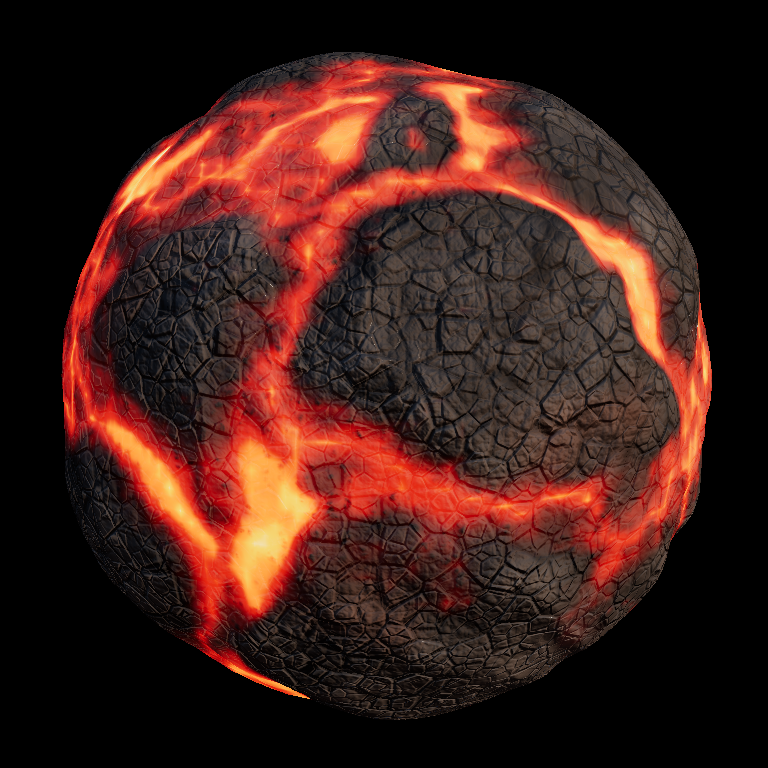
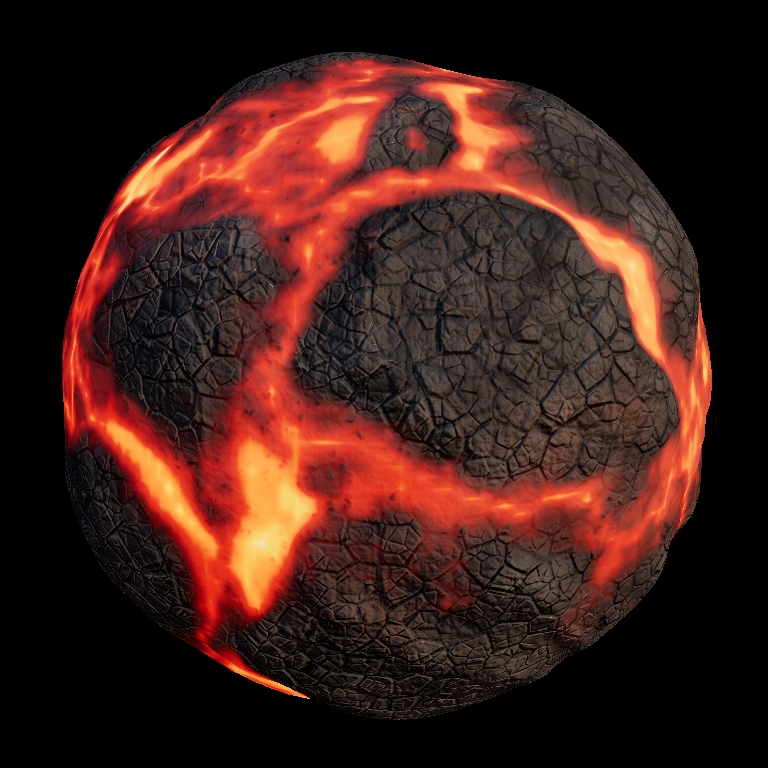
Fade crust normals before lava incandescence

diff --git a/apps/docs/lib/examples-source.generated.ts b/apps/docs/lib/examples-source.generated.ts
@@ -1685,7 +1685,7 @@ export const exampleSources = {
       {
         "path": "lava-material.ts",
         "language": "typescript",
-        "content": "import * as THREE from \"three/webgpu\";\nimport {\n  float,\n  fwidth,\n  mix,\n  normalLocal,\n  positionLocal,\n  smoothstep,\n  texture,\n  time,\n  transformNormalToView,\n  uniform,\n  vec2,\n  vec3,\n} from \"three/tsl\";\nimport type { ShaderNodeObject } from \"three/tsl\";\nimport type { Node } from \"three/webgpu\";\nimport lavaModule from \"./lava.wgsl\";\nimport { tslExports } from \"./wgsl-tsl\";\nimport {\n  sampleDisplacementVolume,\n  sampleFieldVolume,\n  type LavaFieldVolumes,\n} from \"./bake-lava\";\n\nconst { blackbody, perlin3, sharpDetail, sharpScabs } = tslExports(lavaModule, [\n  \"blackbody\",\n  \"perlin3\",\n  \"sharpDetail\",\n  \"sharpScabs\",\n]);\n\nexport interface LavaMaterialOptions {\n  /** Pre-baked field volumes from `bakeLavaVolumes`. */\n  readonly volumes: LavaFieldVolumes;\n  /** Drives the breathing pulse; defaults to the TSL `time` node. */\n  readonly timeNode?: Node;\n}\n\nexport interface LavaMaterial {\n  readonly material: THREE.MeshPhysicalNodeMaterial;\n  /** Emissive strength of the molten channels. */\n  readonly glowIntensity: ReturnType<typeof uniform<number>>;\n  /** Spatial frequency of the lava field on the mesh. */\n  readonly scale: ReturnType<typeof uniform<number>>;\n}\n\n/**\n * Cooling basalt crust over an incandescent molten interior — same\n * composition as before, split between the pre-baked volumes and a live\n * sharp register. Smooth fields (domes, melt, glow, masks) come out of the\n * volumes; the crust's signature fine structure — flaky scabs, seams,\n * vesicle pits, mineral grain — is far below what a 128^3 volume can hold\n * (flake seams are fractions of a texel), so it is evaluated live. That\n * stays cheap because the one expensive dependency those registers had, the\n * lavaDomain warp, is low-frequency and comes pre-baked as an offset volume.\n * The breathing pulse also stays live (its phase is a baked channel), and\n * the ember seep gates the baked fringe through the same live grain that\n * drives the micro normals, so the speckle stays registered with them.\n */\nexport function createLavaMaterial(options: LavaMaterialOptions): LavaMaterial {\n  const { volumes } = options;\n  const glowIntensity = uniform(1.6);\n  const scale = uniform(1.0);\n  // Every caller hands in a TSL-built node (float(...) or the time node);\n  // the option keeps the broader Node type for API symmetry with the scene.\n  const t = (options.timeNode ?? time) as ShaderNodeObject<Node>;\n\n  const p = positionLocal.mul(scale);\n\n  // Baked registers. Glow: x = sqrt(heat/1.6) sans seep, y = melt mask,\n  // z = pulse phase, w = sqrt(seepable fringe/1.4). SurfaceA: x = smooth\n  // crust height, y = cooling skin, z = glass mask, w = spec mottle.\n  // SurfaceB: x = tone, y = oxide, z = fine crevice, w = iridescence.\n  const glow = sampleFieldVolume(volumes.glow, p);\n  const surfaceA = sampleFieldVolume(volumes.surfaceA, p);\n  const surfaceB = sampleFieldVolume(volumes.surfaceB, p);\n  // The lavaDomain warp, decoded; effectively constant across the bump\n  // epsilon (it is 1.1 cycles/unit), so one tap serves every sharp-register\n  // evaluation below.\n  const warpOffset = sampleFieldVolume(volumes.warp, p)\n    .xyz.sub(0.5)\n    .mul(0.9);\n\n  const molten = glow.y;\n  const specMottle = surfaceA.w;\n  const glass = surfaceA.z;\n  const tone = surfaceB.x;\n  const oxide = surfaceB.y;\n  const crevice = surfaceB.z;\n  const irid = surfaceB.w;\n\n  // High-frequency mineral grain is a seamless, mipmapped 2D bake sampled\n  // triplanarly. RGB is sampled at the original 19-cycle grain frequency;\n  // alpha is sampled separately so the streak register retains its authored\n  // 24/7/24 anisotropy. Six filtered taps replace the live four-octave noise\n  // plus its three finite-difference evaluations.\n  const weightsRaw = normalLocal.abs().pow(8).toVar();\n  const weights = weightsRaw.div(weightsRaw.x.add(weightsRaw.y).add(weightsRaw.z));\n  const phaseX = vec2(0.17, 0.53);\n  const phaseY = vec2(0.61, 0.11);\n  const phaseZ = vec2(0.37, 0.79);\n  const grainScale = 19 / 48;\n  const grainX = texture(volumes.microDetail, p.yz.mul(grainScale).add(phaseX));\n  const grainY = texture(volumes.microDetail, p.xz.mul(grainScale).add(phaseY));\n  const grainZ = texture(volumes.microDetail, p.xy.mul(grainScale).add(phaseZ));\n  const grain = grainX.x.mul(weights.x)\n    .add(grainY.x.mul(weights.y))\n    .add(grainZ.x.mul(weights.z));\n\n  const streakPeriod = 64;\n  const streakX = texture(\n    volumes.microDetail,\n    p.yz.mul(vec2(7 / streakPeriod, 24 / streakPeriod))\n      .add(vec2(8 / streakPeriod, 15 / streakPeriod))\n      .add(phaseX)\n  ).w;\n  const streakY = texture(\n    volumes.microDetail,\n    p.xz.mul(vec2(24 / streakPeriod, 24 / streakPeriod))\n      .add(vec2(4 / streakPeriod, 15 / streakPeriod))\n      .add(phaseY)\n  ).w;\n  const streakZ = texture(\n    volumes.microDetail,\n    p.xy.mul(vec2(24 / streakPeriod, 7 / streakPeriod))\n      .add(vec2(4 / streakPeriod, 8 / streakPeriod))\n      .add(phaseZ)\n  ).w;\n  const streaks = streakX.mul(weights.x)\n    .add(streakY.mul(weights.y))\n    .add(streakZ.mul(weights.z));\n\n  // GB stores d(grain)/d(tile uv). Apply the coordinate chain rule for the\n  // object-space grain coordinates, then blend the projection gradients.\n  const microGrad = vec3(0, grainX.y, grainX.z).mul(weights.x)\n    .add(vec3(grainY.y, 0, grainY.z).mul(weights.y))\n    .add(vec3(grainZ.y, grainZ.z, 0).mul(weights.z))\n    .mul(grainScale);\n  const microTangent = microGrad.sub(normalLocal.mul(microGrad.dot(normalLocal)));\n\n  // Sharp crust structure (flaky scabs, seams, vesicle pits) stays live: its\n  // masks are fractions of a volume texel and are outside this first bake.\n  const sharp = sharpDetail({ position: p, warpOffset });\n  const scabs = sharp.x;\n  const pits = sharp.y;\n  const pitsOnly = sharp.z;\n  const height = surfaceA.x.add(scabs).sub(pitsOnly.mul(0.08)).clamp(0, 1);\n\n  // Slow breathing so the melt looks alive, and the ember seep gating the\n  // baked fringe through the LIVE grain — the same register the micro\n  // normals use, so the speckle sits in crevices you can actually see.\n  const pulse = t.mul(0.7).add(glow.z.mul(6.2831853)).sin().mul(0.1).add(0.9);\n  const seep = smoothstep(0.62, 0.25, grain);\n  const fringe = glow.w.mul(glow.w).mul(1.4).mul(seep);\n  const heat = glow.x.mul(glow.x).mul(1.6).add(fringe).mul(pulse).clamp(0, 1);\n\n  // Band-limiting: fade each detail register out as its wavelength drops\n  // under the pixel footprint, so distant/minified areas stay clean instead\n  // of dissolving into per-pixel speckle.\n  const footprint = fwidth(p).length();\n  const microFade = smoothstep(0.022, 0.007, footprint);\n  const striaeFade = smoothstep(0.012, 0.004, footprint);\n\n  const material = new THREE.MeshPhysicalNodeMaterial({ metalness: 0 });\n\n  // Basalt skin: warm dusty grey-brown, ridges catching more light than the\n  // fissured low ground, rust staining on older patches, and pits plus\n  // flake seams going almost black.\n  const ash = mix(vec3(0.045, 0.04, 0.036), vec3(0.19, 0.17, 0.15), tone);\n  const ridgeLight = height.mul(height).mul(0.6).add(0.6);\n  const stained = mix(ash.mul(ridgeLight), vec3(0.20, 0.085, 0.05), oxide.mul(0.5));\n  const basalt = mix(stained, stained.mul(0.4), pits);\n  material.colorNode = mix(basalt, vec3(0.012, 0.01, 0.009), molten);\n\n  // Incandescence: blackbody ramp over the baked heat field, crushed\n  // slightly so contact rims go yellow-white while striation crests cool\n  // through deep red.\n  material.emissiveNode = blackbody({ t: heat.pow(1.35) }).mul(glowIntensity);\n\n  // Roughness map, not a constant: rubble is matte with sharp grain breakup,\n  // the glassy skin is polished but streaked by flow lines, vesicle pits and\n  // dusty valleys scatter more, and molten rock is a glossy liquid.\n  const crustRoughness = mix(float(0.94), float(0.55), glass)\n    .add(grain.sub(0.5).mul(microFade.mul(0.14)))\n    .add(streaks.sub(0.5).mul(0.12).mul(glass))\n    .add(pits.mul(0.08))\n    .add(height.oneMinus().mul(0.05));\n  const moltenRoughness = float(0.32).add(streaks.sub(0.5).mul(0.1));\n  material.roughnessNode = mix(crustRoughness, moltenRoughness, molten).clamp(0.05, 1);\n  material.clearcoatNode = glass.mul(0.25).mul(molten.oneMinus());\n  material.clearcoatRoughnessNode = float(0.22).add(grain.sub(0.5).mul(0.15)).clamp(0.05, 1);\n\n  // PBR refinement from the baked registers; only the facet glints stay\n  // live, being a single high-frequency perlin tap.\n  const facets = smoothstep(\n    0.72,\n    0.92,\n    perlin3({ position: p.mul(21).add(vec3(11, 3, 29)) })\n  );\n  // Cavity occlusion, rebuilt from the baked crevice mask plus the live\n  // pits — the same formula crustPbr used.\n  const cavity = float(1).sub(crevice.mul(0.5)).sub(pitsOnly.mul(0.35)).clamp(0, 1);\n  material.aoNode = cavity;\n  material.specularIntensityNode = mix(specMottle, float(1), molten);\n  material.metalnessNode = facets.mul(glass.mul(0.25).add(0.05)).mul(molten.oneMinus());\n  material.iridescenceNode = irid.mul(glass).mul(0.15);\n  material.iridescenceIORNode = float(2.0);\n  material.iridescenceThicknessNode = irid.mul(250).add(150);\n\n  // Vertex displacement is one small-volume tap: the bake already combined\n  // plate bulge minus channel sink into a single encoded scalar.\n  const relief = sampleDisplacementVolume(volumes.displacement, p)\n    .x.mul(0.9)\n    .sub(0.4)\n    .mul(0.12);\n  material.positionNode = positionLocal.add(normalLocal.mul(relief));\n\n  // Bump normals: the smooth plate/rope gradient finite-differences the\n  // baked volume, and the flaky scab plateaus — the cracked-plate skin that\n  // defines the crust, far too fine for the volume — finite-difference the\n  // live field at the same taps, sharing the one baked warp offset.\n  const eps = 0.024;\n  const smoothHeight = surfaceA.x;\n  const offsetX = sampleFieldVolume(volumes.surfaceA, p.add(vec3(eps, 0, 0)));\n  const offsetY = sampleFieldVolume(volumes.surfaceA, p.add(vec3(0, eps, 0)));\n  const offsetZ = sampleFieldVolume(volumes.surfaceA, p.add(vec3(0, 0, eps)));\n  const scabEps = 0.006;\n  const scabGrad = vec3(\n    sharpScabs({ position: p.add(vec3(scabEps, 0, 0)), warpOffset }).sub(scabs),\n    sharpScabs({ position: p.add(vec3(0, scabEps, 0)), warpOffset }).sub(scabs),\n    sharpScabs({ position: p.add(vec3(0, 0, scabEps)), warpOffset }).sub(scabs)\n  ).div(scabEps);\n  const grad = vec3(\n    offsetX.x.sub(smoothHeight),\n    offsetY.x.sub(smoothHeight),\n    offsetZ.x.sub(smoothHeight)\n  )\n    .div(eps)\n    .add(scabGrad);\n  const tangentGrad = grad.sub(normalLocal.mul(grad.dot(normalLocal)));\n\n  const skin = surfaceA.y;\n  const skinGrad = vec3(\n    offsetX.y.sub(skin),\n    offsetY.y.sub(skin),\n    offsetZ.y.sub(skin)\n  ).div(eps);\n  const skinTangent = skinGrad.sub(normalLocal.mul(skinGrad.dot(normalLocal)));\n\n  const bumped = normalLocal\n    .sub(tangentGrad.mul(mix(float(0.16), float(0.04), molten)))\n    .sub(microTangent.mul(mix(float(0.022), float(0.008), molten).mul(microFade)))\n    .sub(skinTangent.mul(molten.mul(0.014).mul(striaeFade)))\n    .normalize();\n  material.normalNode = transformNormalToView(bumped);\n\n  // The clearcoat is the frozen glass skin draped over the rock: it follows\n  // the plates but not the mineral grain, so it gets its own smoother normal.\n  const skinNormal = normalLocal.sub(tangentGrad.mul(0.1)).normalize();\n  material.clearcoatNormalNode = transformNormalToView(skinNormal);\n\n  return { material, glowIntensity, scale };\n}\n"
+        "content": "import * as THREE from \"three/webgpu\";\nimport {\n  float,\n  fwidth,\n  mix,\n  normalLocal,\n  positionLocal,\n  smoothstep,\n  texture,\n  time,\n  transformNormalToView,\n  uniform,\n  vec2,\n  vec3,\n} from \"three/tsl\";\nimport type { ShaderNodeObject } from \"three/tsl\";\nimport type { Node } from \"three/webgpu\";\nimport lavaModule from \"./lava.wgsl\";\nimport { tslExports } from \"./wgsl-tsl\";\nimport {\n  sampleDisplacementVolume,\n  sampleFieldVolume,\n  type LavaFieldVolumes,\n} from \"./bake-lava\";\n\nconst { blackbody, perlin3, sharpDetail, sharpScabs } = tslExports(lavaModule, [\n  \"blackbody\",\n  \"perlin3\",\n  \"sharpDetail\",\n  \"sharpScabs\",\n]);\n\nexport interface LavaMaterialOptions {\n  /** Pre-baked field volumes from `bakeLavaVolumes`. */\n  readonly volumes: LavaFieldVolumes;\n  /** Drives the breathing pulse; defaults to the TSL `time` node. */\n  readonly timeNode?: Node;\n}\n\nexport interface LavaMaterial {\n  readonly material: THREE.MeshPhysicalNodeMaterial;\n  /** Emissive strength of the molten channels. */\n  readonly glowIntensity: ReturnType<typeof uniform<number>>;\n  /** Spatial frequency of the lava field on the mesh. */\n  readonly scale: ReturnType<typeof uniform<number>>;\n}\n\n/**\n * Cooling basalt crust over an incandescent molten interior — same\n * composition as before, split between the pre-baked volumes and a live\n * sharp register. Smooth fields (domes, melt, glow, masks) come out of the\n * volumes; the crust's signature fine structure — flaky scabs, seams,\n * vesicle pits, mineral grain — is far below what a 128^3 volume can hold\n * (flake seams are fractions of a texel), so it is evaluated live. That\n * stays cheap because the one expensive dependency those registers had, the\n * lavaDomain warp, is low-frequency and comes pre-baked as an offset volume.\n * The breathing pulse also stays live (its phase is a baked channel), and\n * the ember seep gates the baked fringe through the same live grain that\n * drives the micro normals, so the speckle stays registered with them.\n */\nexport function createLavaMaterial(options: LavaMaterialOptions): LavaMaterial {\n  const { volumes } = options;\n  const glowIntensity = uniform(1.6);\n  const scale = uniform(1.0);\n  // Every caller hands in a TSL-built node (float(...) or the time node);\n  // the option keeps the broader Node type for API symmetry with the scene.\n  const t = (options.timeNode ?? time) as ShaderNodeObject<Node>;\n\n  const p = positionLocal.mul(scale);\n\n  // Baked registers. Glow: x = sqrt(heat/1.6) sans seep, y = melt mask,\n  // z = pulse phase, w = sqrt(seepable fringe/1.4). SurfaceA: x = smooth\n  // crust height, y = cooling skin, z = glass mask, w = spec mottle.\n  // SurfaceB: x = tone, y = oxide, z = fine crevice, w = iridescence.\n  const glow = sampleFieldVolume(volumes.glow, p);\n  const surfaceA = sampleFieldVolume(volumes.surfaceA, p);\n  const surfaceB = sampleFieldVolume(volumes.surfaceB, p);\n  // The lavaDomain warp, decoded; effectively constant across the bump\n  // epsilon (it is 1.1 cycles/unit), so one tap serves every sharp-register\n  // evaluation below.\n  const warpOffset = sampleFieldVolume(volumes.warp, p)\n    .xyz.sub(0.5)\n    .mul(0.9);\n\n  const molten = glow.y;\n  const specMottle = surfaceA.w;\n  const glass = surfaceA.z;\n  const tone = surfaceB.x;\n  const oxide = surfaceB.y;\n  const crevice = surfaceB.z;\n  const irid = surfaceB.w;\n\n  // High-frequency mineral grain is a seamless, mipmapped 2D bake sampled\n  // triplanarly. RGB is sampled at the original 19-cycle grain frequency;\n  // alpha is sampled separately so the streak register retains its authored\n  // 24/7/24 anisotropy. Six filtered taps replace the live four-octave noise\n  // plus its three finite-difference evaluations.\n  const weightsRaw = normalLocal.abs().pow(8).toVar();\n  const weights = weightsRaw.div(weightsRaw.x.add(weightsRaw.y).add(weightsRaw.z));\n  const phaseX = vec2(0.17, 0.53);\n  const phaseY = vec2(0.61, 0.11);\n  const phaseZ = vec2(0.37, 0.79);\n  const grainScale = 19 / 48;\n  const grainX = texture(volumes.microDetail, p.yz.mul(grainScale).add(phaseX));\n  const grainY = texture(volumes.microDetail, p.xz.mul(grainScale).add(phaseY));\n  const grainZ = texture(volumes.microDetail, p.xy.mul(grainScale).add(phaseZ));\n  const grain = grainX.x.mul(weights.x)\n    .add(grainY.x.mul(weights.y))\n    .add(grainZ.x.mul(weights.z));\n\n  const streakPeriod = 64;\n  const streakX = texture(\n    volumes.microDetail,\n    p.yz.mul(vec2(7 / streakPeriod, 24 / streakPeriod))\n      .add(vec2(8 / streakPeriod, 15 / streakPeriod))\n      .add(phaseX)\n  ).w;\n  const streakY = texture(\n    volumes.microDetail,\n    p.xz.mul(vec2(24 / streakPeriod, 24 / streakPeriod))\n      .add(vec2(4 / streakPeriod, 15 / streakPeriod))\n      .add(phaseY)\n  ).w;\n  const streakZ = texture(\n    volumes.microDetail,\n    p.xy.mul(vec2(24 / streakPeriod, 7 / streakPeriod))\n      .add(vec2(4 / streakPeriod, 8 / streakPeriod))\n      .add(phaseZ)\n  ).w;\n  const streaks = streakX.mul(weights.x)\n    .add(streakY.mul(weights.y))\n    .add(streakZ.mul(weights.z));\n\n  // GB stores d(grain)/d(tile uv). Apply the coordinate chain rule for the\n  // object-space grain coordinates, then blend the projection gradients.\n  const microGrad = vec3(0, grainX.y, grainX.z).mul(weights.x)\n    .add(vec3(grainY.y, 0, grainY.z).mul(weights.y))\n    .add(vec3(grainZ.y, grainZ.z, 0).mul(weights.z))\n    .mul(grainScale);\n  const microTangent = microGrad.sub(normalLocal.mul(microGrad.dot(normalLocal)));\n\n  // Sharp crust structure (flaky scabs, seams, vesicle pits) stays live: its\n  // masks are fractions of a volume texel and are outside this first bake.\n  const sharp = sharpDetail({ position: p, warpOffset });\n  const scabs = sharp.x;\n  const pits = sharp.y;\n  const pitsOnly = sharp.z;\n  const height = surfaceA.x.add(scabs).sub(pitsOnly.mul(0.08)).clamp(0, 1);\n\n  // Slow breathing so the melt looks alive, and the ember seep gating the\n  // baked fringe through the LIVE grain — the same register the micro\n  // normals use, so the speckle sits in crevices you can actually see.\n  const pulse = t.mul(0.7).add(glow.z.mul(6.2831853)).sin().mul(0.1).add(0.9);\n  const seep = smoothstep(0.62, 0.25, grain);\n  const fringe = glow.w.mul(glow.w).mul(1.4).mul(seep);\n  const heat = glow.x.mul(glow.x).mul(1.6).add(fringe).mul(pulse).clamp(0, 1);\n  const incandescence = heat.pow(1.35);\n\n  // Band-limiting: fade each detail register out as its wavelength drops\n  // under the pixel footprint, so distant/minified areas stay clean instead\n  // of dissolving into per-pixel speckle.\n  const footprint = fwidth(p).length();\n  const microFade = smoothstep(0.022, 0.007, footprint);\n  const striaeFade = smoothstep(0.012, 0.004, footprint);\n\n  const material = new THREE.MeshPhysicalNodeMaterial({ metalness: 0 });\n\n  // Basalt skin: warm dusty grey-brown, ridges catching more light than the\n  // fissured low ground, rust staining on older patches, and pits plus\n  // flake seams going almost black.\n  const ash = mix(vec3(0.045, 0.04, 0.036), vec3(0.19, 0.17, 0.15), tone);\n  const ridgeLight = height.mul(height).mul(0.6).add(0.6);\n  const stained = mix(ash.mul(ridgeLight), vec3(0.20, 0.085, 0.05), oxide.mul(0.5));\n  const basalt = mix(stained, stained.mul(0.4), pits);\n  material.colorNode = mix(basalt, vec3(0.012, 0.01, 0.009), molten);\n\n  // Incandescence: blackbody ramp over the baked heat field, crushed\n  // slightly so contact rims go yellow-white while striation crests cool\n  // through deep red.\n  material.emissiveNode = blackbody({ t: incandescence }).mul(glowIntensity);\n\n  // Roughness map, not a constant: rubble is matte with sharp grain breakup,\n  // the glassy skin is polished but streaked by flow lines, vesicle pits and\n  // dusty valleys scatter more, and molten rock is a glossy liquid.\n  const crustRoughness = mix(float(0.94), float(0.55), glass)\n    .add(grain.sub(0.5).mul(microFade.mul(0.14)))\n    .add(streaks.sub(0.5).mul(0.12).mul(glass))\n    .add(pits.mul(0.08))\n    .add(height.oneMinus().mul(0.05));\n  const moltenRoughness = float(0.32).add(streaks.sub(0.5).mul(0.1));\n  material.roughnessNode = mix(crustRoughness, moltenRoughness, molten).clamp(0.05, 1);\n  material.clearcoatNode = glass.mul(0.25).mul(molten.oneMinus());\n  material.clearcoatRoughnessNode = float(0.22).add(grain.sub(0.5).mul(0.15)).clamp(0.05, 1);\n\n  // PBR refinement from the baked registers; only the facet glints stay\n  // live, being a single high-frequency perlin tap.\n  const facets = smoothstep(\n    0.72,\n    0.92,\n    perlin3({ position: p.mul(21).add(vec3(11, 3, 29)) })\n  );\n  // Cavity occlusion, rebuilt from the baked crevice mask plus the live\n  // pits — the same formula crustPbr used.\n  const cavity = float(1).sub(crevice.mul(0.5)).sub(pitsOnly.mul(0.35)).clamp(0, 1);\n  material.aoNode = cavity;\n  material.specularIntensityNode = mix(specMottle, float(1), molten);\n  material.metalnessNode = facets.mul(glass.mul(0.25).add(0.05)).mul(molten.oneMinus());\n  material.iridescenceNode = irid.mul(glass).mul(0.15);\n  material.iridescenceIORNode = float(2.0);\n  material.iridescenceThicknessNode = irid.mul(250).add(150);\n\n  // Vertex displacement is one small-volume tap: the bake already combined\n  // plate bulge minus channel sink into a single encoded scalar.\n  const relief = sampleDisplacementVolume(volumes.displacement, p)\n    .x.mul(0.9)\n    .sub(0.4)\n    .mul(0.12);\n  material.positionNode = positionLocal.add(normalLocal.mul(relief));\n\n  // Bump normals: the smooth plate/rope gradient finite-differences the\n  // baked volume, and the flaky scab plateaus — the cracked-plate skin that\n  // defines the crust, far too fine for the volume — finite-difference the\n  // live field at the same taps, sharing the one baked warp offset.\n  const eps = 0.024;\n  const smoothHeight = surfaceA.x;\n  const offsetX = sampleFieldVolume(volumes.surfaceA, p.add(vec3(eps, 0, 0)));\n  const offsetY = sampleFieldVolume(volumes.surfaceA, p.add(vec3(0, eps, 0)));\n  const offsetZ = sampleFieldVolume(volumes.surfaceA, p.add(vec3(0, 0, eps)));\n  const scabEps = 0.006;\n  const scabGrad = vec3(\n    sharpScabs({ position: p.add(vec3(scabEps, 0, 0)), warpOffset }).sub(scabs),\n    sharpScabs({ position: p.add(vec3(0, scabEps, 0)), warpOffset }).sub(scabs),\n    sharpScabs({ position: p.add(vec3(0, 0, scabEps)), warpOffset }).sub(scabs)\n  ).div(scabEps);\n  const grad = vec3(\n    offsetX.x.sub(smoothHeight),\n    offsetY.x.sub(smoothHeight),\n    offsetZ.x.sub(smoothHeight)\n  )\n    .div(eps)\n    .add(scabGrad);\n  const tangentGrad = grad.sub(normalLocal.mul(grad.dot(normalLocal)));\n\n  const skin = surfaceA.y;\n  const skinGrad = vec3(\n    offsetX.y.sub(skin),\n    offsetY.y.sub(skin),\n    offsetZ.y.sub(skin)\n  ).div(eps);\n  const skinTangent = skinGrad.sub(normalLocal.mul(skinGrad.dot(normalLocal)));\n\n  // The broad red fringe is hot rock, even where the narrower liquid mask has\n  // not opened yet. Fade the large crust-plate normal against the exact signal\n  // that starts blackbody incandescence, so Voronoi slabs are gone by the time\n  // the surface reads visibly red instead of embossing a stone normal on lava.\n  const hotSurface = smoothstep(0.015, 0.09, incandescence);\n  const crustNormalFade = hotSurface.oneMinus();\n  const bumped = normalLocal\n    .sub(tangentGrad.mul(float(0.16).mul(crustNormalFade)))\n    .sub(\n      microTangent.mul(\n        mix(float(0.022), float(0.008), hotSurface).mul(microFade)\n      )\n    )\n    .sub(skinTangent.mul(molten.mul(0.014).mul(striaeFade)))\n    .normalize();\n  material.normalNode = transformNormalToView(bumped);\n\n  // The clearcoat is the frozen glass skin draped over the rock: it follows\n  // the plates but not the mineral grain, so it gets its own smoother normal.\n  const skinNormal = normalLocal\n    .sub(tangentGrad.mul(float(0.1).mul(crustNormalFade)))\n    .normalize();\n  material.clearcoatNormalNode = transformNormalToView(skinNormal);\n\n  return { material, glowIntensity, scale };\n}\n"
       },
       {
         "path": "bake-lava.ts",

diff --git a/apps/docs/examples/three-tsl/lava-material.ts b/apps/docs/examples/three-tsl/lava-material.ts
@@ -154,6 +154,7 @@ export function createLavaMaterial(options: LavaMaterialOptions): LavaMaterial {
   const seep = smoothstep(0.62, 0.25, grain);
   const fringe = glow.w.mul(glow.w).mul(1.4).mul(seep);
   const heat = glow.x.mul(glow.x).mul(1.6).add(fringe).mul(pulse).clamp(0, 1);
+  const incandescence = heat.pow(1.35);
 
   // Band-limiting: fade each detail register out as its wavelength drops
   // under the pixel footprint, so distant/minified areas stay clean instead
@@ -176,7 +177,7 @@ export function createLavaMaterial(options: LavaMaterialOptions): LavaMaterial {
   // Incandescence: blackbody ramp over the baked heat field, crushed
   // slightly so contact rims go yellow-white while striation crests cool
   // through deep red.
-  material.emissiveNode = blackbody({ t: heat.pow(1.35) }).mul(glowIntensity);
+  material.emissiveNode = blackbody({ t: incandescence }).mul(glowIntensity);
 
   // Roughness map, not a constant: rubble is matte with sharp grain breakup,
   // the glassy skin is polished but streaked by flow lines, vesicle pits and
@@ -248,16 +249,28 @@ export function createLavaMaterial(options: LavaMaterialOptions): LavaMaterial {
   ).div(eps);
   const skinTangent = skinGrad.sub(normalLocal.mul(skinGrad.dot(normalLocal)));
 
+  // The broad red fringe is hot rock, even where the narrower liquid mask has
+  // not opened yet. Fade the large crust-plate normal against the exact signal
+  // that starts blackbody incandescence, so Voronoi slabs are gone by the time
+  // the surface reads visibly red instead of embossing a stone normal on lava.
+  const hotSurface = smoothstep(0.015, 0.09, incandescence);
+  const crustNormalFade = hotSurface.oneMinus();
   const bumped = normalLocal
-    .sub(tangentGrad.mul(mix(float(0.16), float(0.04), molten)))
-    .sub(microTangent.mul(mix(float(0.022), float(0.008), molten).mul(microFade)))
+    .sub(tangentGrad.mul(float(0.16).mul(crustNormalFade)))
+    .sub(
+      microTangent.mul(
+        mix(float(0.022), float(0.008), hotSurface).mul(microFade)
+      )
+    )
     .sub(skinTangent.mul(molten.mul(0.014).mul(striaeFade)))
     .normalize();
   material.normalNode = transformNormalToView(bumped);
 
   // The clearcoat is the frozen glass skin draped over the rock: it follows
   // the plates but not the mineral grain, so it gets its own smoother normal.
-  const skinNormal = normalLocal.sub(tangentGrad.mul(0.1)).normalize();
+  const skinNormal = normalLocal
+    .sub(tangentGrad.mul(float(0.1).mul(crustNormalFade)))
+    .normalize();
   material.clearcoatNormalNode = transformNormalToView(skinNormal);
 
   return { material, glowIntensity, scale };

diff --git a/examples/three-tsl/src/lava-material.ts b/examples/three-tsl/src/lava-material.ts
@@ -154,6 +154,7 @@ export function createLavaMaterial(options: LavaMaterialOptions): LavaMaterial {
   const seep = smoothstep(0.62, 0.25, grain);
   const fringe = glow.w.mul(glow.w).mul(1.4).mul(seep);
   const heat = glow.x.mul(glow.x).mul(1.6).add(fringe).mul(pulse).clamp(0, 1);
+  const incandescence = heat.pow(1.35);
 
   // Band-limiting: fade each detail register out as its wavelength drops
   // under the pixel footprint, so distant/minified areas stay clean instead
@@ -176,7 +177,7 @@ export function createLavaMaterial(options: LavaMaterialOptions): LavaMaterial {
   // Incandescence: blackbody ramp over the baked heat field, crushed
   // slightly so contact rims go yellow-white while striation crests cool
   // through deep red.
-  material.emissiveNode = blackbody({ t: heat.pow(1.35) }).mul(glowIntensity);
+  material.emissiveNode = blackbody({ t: incandescence }).mul(glowIntensity);
 
   // Roughness map, not a constant: rubble is matte with sharp grain breakup,
   // the glassy skin is polished but streaked by flow lines, vesicle pits and
@@ -248,16 +249,28 @@ export function createLavaMaterial(options: LavaMaterialOptions): LavaMaterial {
   ).div(eps);
   const skinTangent = skinGrad.sub(normalLocal.mul(skinGrad.dot(normalLocal)));
 
+  // The broad red fringe is hot rock, even where the narrower liquid mask has
+  // not opened yet. Fade the large crust-plate normal against the exact signal
+  // that starts blackbody incandescence, so Voronoi slabs are gone by the time
+  // the surface reads visibly red instead of embossing a stone normal on lava.
+  const hotSurface = smoothstep(0.015, 0.09, incandescence);
+  const crustNormalFade = hotSurface.oneMinus();
   const bumped = normalLocal
-    .sub(tangentGrad.mul(mix(float(0.16), float(0.04), molten)))
-    .sub(microTangent.mul(mix(float(0.022), float(0.008), molten).mul(microFade)))
+    .sub(tangentGrad.mul(float(0.16).mul(crustNormalFade)))
+    .sub(
+      microTangent.mul(
+        mix(float(0.022), float(0.008), hotSurface).mul(microFade)
+      )
+    )
     .sub(skinTangent.mul(molten.mul(0.014).mul(striaeFade)))
     .normalize();
   material.normalNode = transformNormalToView(bumped);
 
   // The clearcoat is the frozen glass skin draped over the rock: it follows
   // the plates but not the mineral grain, so it gets its own smoother normal.
-  const skinNormal = normalLocal.sub(tangentGrad.mul(0.1)).normalize();
+  const skinNormal = normalLocal
+    .sub(tangentGrad.mul(float(0.1).mul(crustNormalFade)))
+    .normalize();
   material.clearcoatNormalNode = transformNormalToView(skinNormal);
 
   return { material, glowIntensity, scale };
